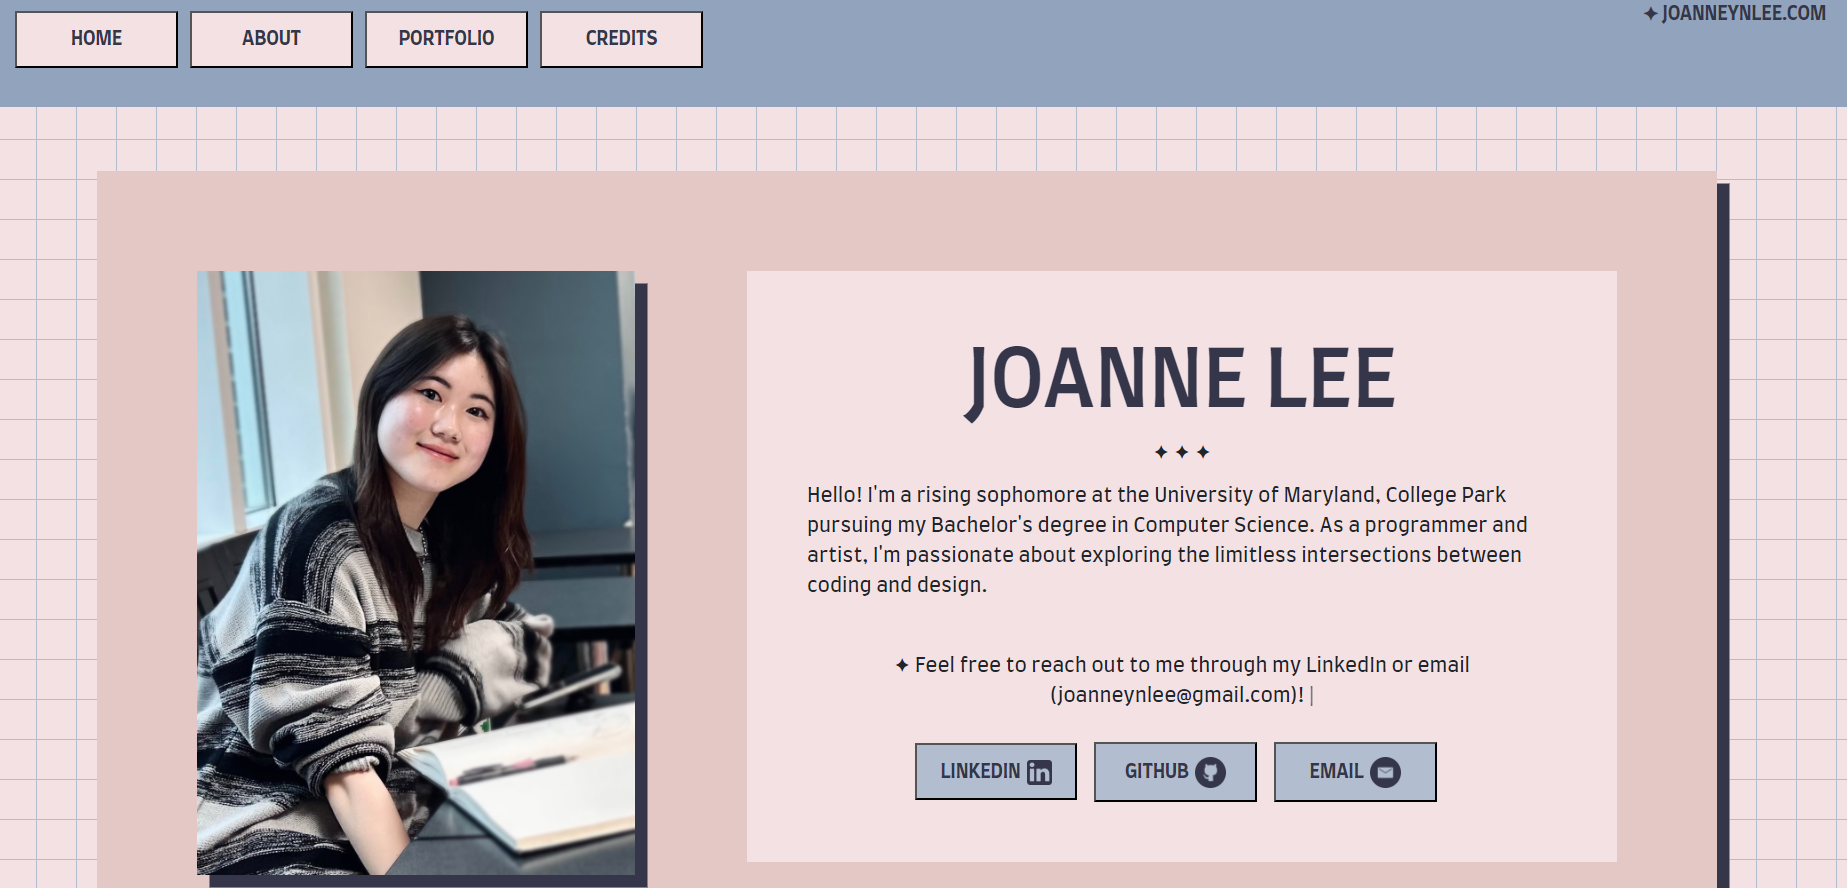
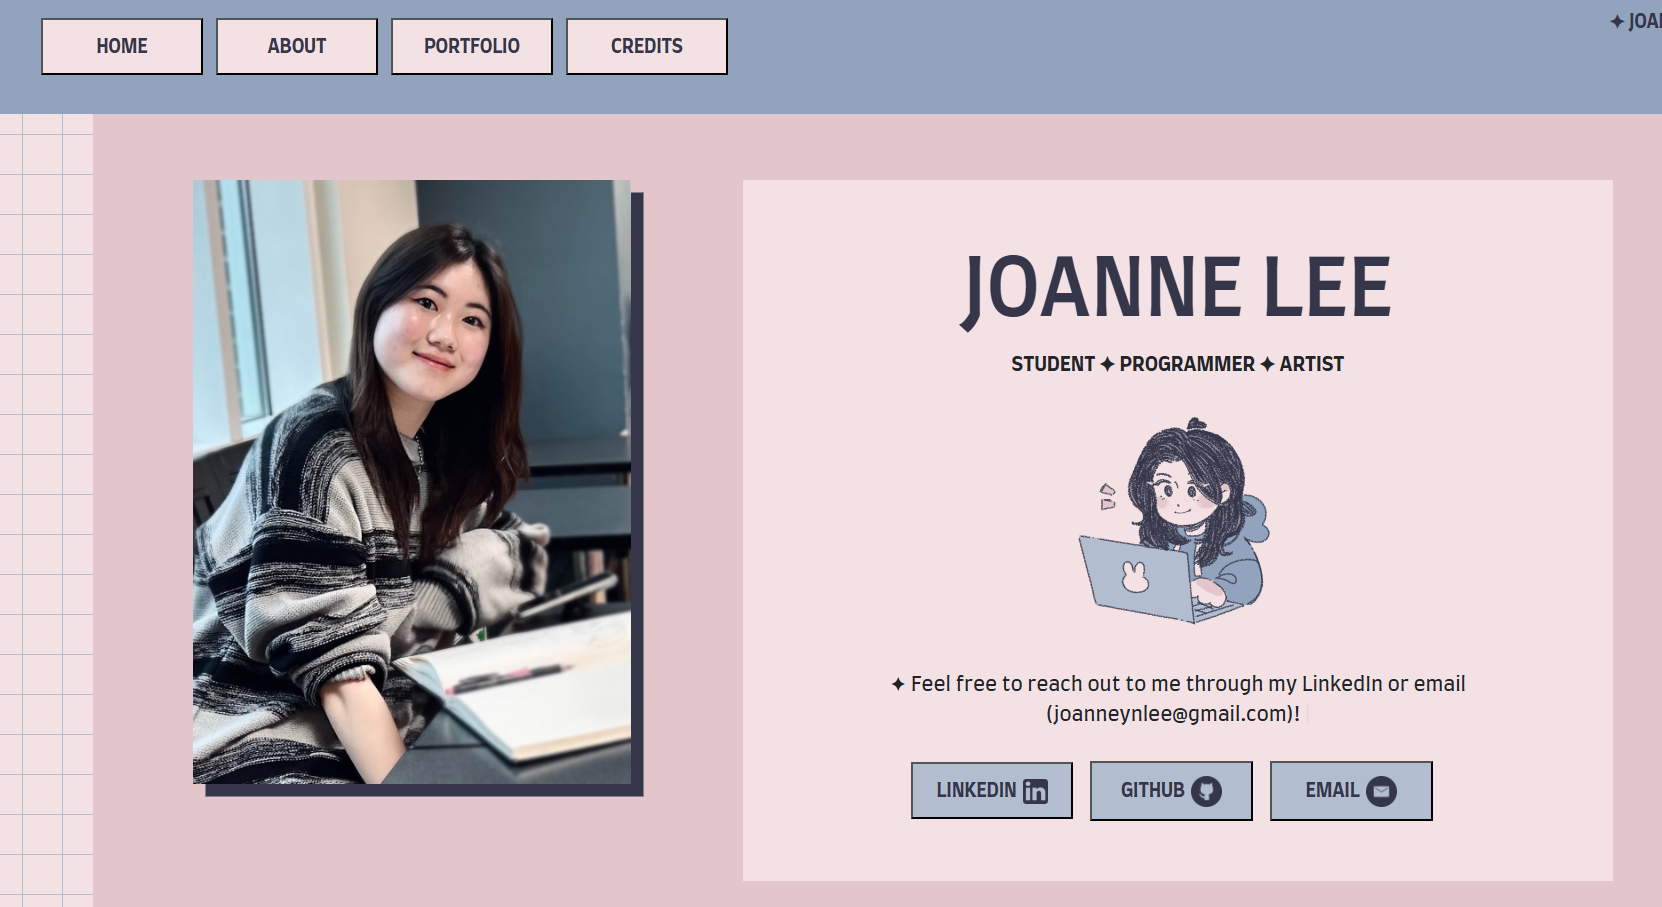
updated information and added gif

diff --git a/index.html b/index.html
@@ -28,12 +28,11 @@
 
               <div class="col-lg-8"><div id="pagetitle">
                 <h1>JOANNE LEE</h1>
-                ✦ ✦ ✦<br>
-                <p id="left">Hello! I'm a rising sophomore at the University of Maryland, College Park pursuing my Bachelor's degree in Computer Science.
-                  As a programmer and artist, I'm passionate about exploring the limitless intersections between coding and design. 
-                </p>
+                <p><strong>STUDENT ✦ PROGRAMMER ✦ ARTIST</strong>  
                 <p>
-                  <br>✦ Feel free to reach out to me through my LinkedIn or email (joanneynlee@gmail.com)! <span id="blink">|</span>
+                <img src='images\Self\animation.gif' alt='Self image' class="img-fluid" width="200px">
+                <p>
+                  ✦ Feel free to reach out to me through my LinkedIn or email (joanneynlee@gmail.com)! <span id="blink">|</span>
                 </p>
                 </ul>
                   <a href="https://www.linkedin.com/in/joanne-lee-27aa5b290/" target=”_blank”><button id="blue"><strong>LINKEDIN</strong><img src='images\Icons\LinkedIn.png' id="icon" alt='LinkedIn' width="20"></button></a>
@@ -75,10 +74,10 @@
                       <div class="expandable__content">
                         <p>
                           <ul>
+                            <li><strong>✦ Attending:</strong> University of Maryland, College Park (UMD)</li>
                             <li><strong>✦ Major:</strong> Computer Science</li>
                             <li><strong>✦ Year:</strong> Rising sophomore</li>
                             <li><strong>✦ Previously attended:</strong> Marriotts Ridge High School</li>
-                            <li><strong>✦ Currently attending:</strong> University of Maryland, College Park (UMD)</li>
                             <li><strong>✦ Programs:</strong> UMD Honors College (Design Cultures and Creativity Living Learning Program), QUEST Honors Program</li>
                             <li><strong>✦ Academic Awards:</strong> National Merit Scholarship Finalist, UMD Dean's Scholarship recipient, Dean's List (Spring 2024), AP Scholar with Distinction</li>
                           </ul>
@@ -133,7 +132,7 @@
                           <div id="card">
                             <img src="images\Code\portfolio.png" alt='Animation' id="card-image">
                             <div id="card-text">
-                              <h4>THIS WEBSITE</h4>
+                              <h4>PORTFOLIO WEBSITE</h4>
                               <p>Developed a portfolio website to store and display my projects.</p>
                             </div>
                           </div>

diff --git a/style.css b/style.css
@@ -4,7 +4,7 @@
     --white: #F3E1E4;
     --blue: #91a3bd;
     --gray: #b2becf;
-    --pink: #e3c8c6;
+    --pink: #e3c6cb;
     --brown: #8e7d86;
     --black: #35364A;
 }
